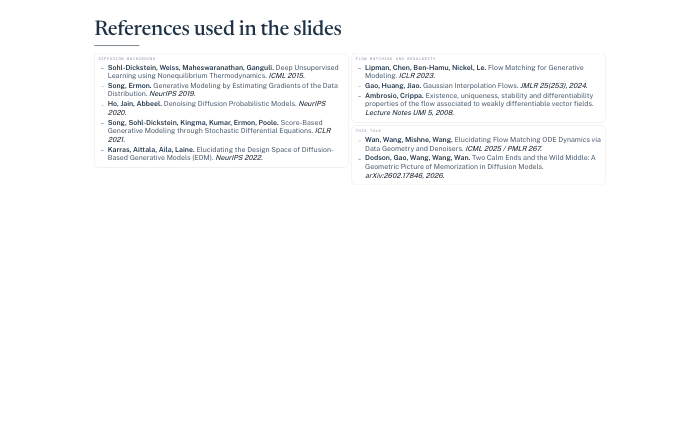
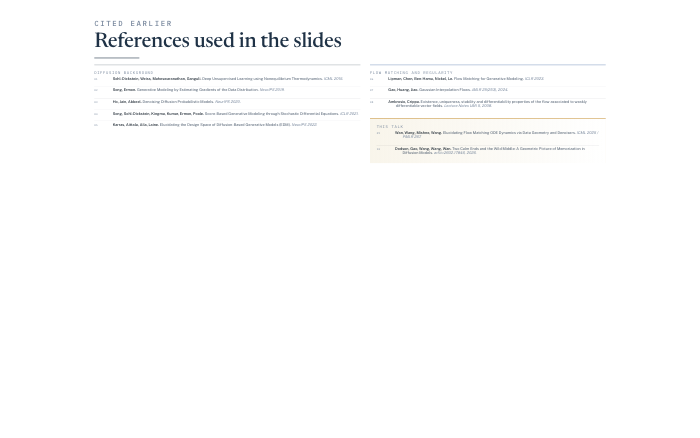
Polish references slide

Changed region(s): [[0.12, 0.0297, 0.87, 0.4155]]

diff --git a/colloquium-academic-v8-modular-rebuilt/44-references.html b/colloquium-academic-v8-modular-rebuilt/44-references.html
@@ -30,75 +30,177 @@
     <div class="slides">
 <section class="refs-slide">
 <style>
-  .refs-slide .late-shell {
-    width: 100%;
-  }
-
   .refs-slide h2 {
-    margin-bottom: 0.34em;
+    margin-bottom: 0.42em;
   }
 
-  .refs-slide .late-refs-grid {
-    grid-template-columns: minmax(0, 1fr) minmax(0, 1fr);
-    gap: 0.48rem;
+  .refs-slide .refs-spread {
+    flex: 1 1 auto;
+    min-height: 0;
+    display: grid;
+    grid-template-columns: minmax(0, 1.06fr) minmax(0, 0.94fr);
+    gap: 0.9em;
+    align-items: stretch;
   }
 
-  .refs-slide .late-refs-stack {
-    gap: 0.48rem;
+  .refs-slide .refs-column,
+  .refs-slide .refs-stack {
+    min-width: 0;
+    min-height: 0;
   }
 
-  .refs-slide .late-panel {
-    border-radius: 12px;
-    padding: 0.48rem 0.62rem 0.5rem;
+  .refs-slide .refs-column {
+    display: flex;
+    flex-direction: column;
   }
 
-  .refs-slide .late-panel__kicker {
-    margin-bottom: 0.32rem;
-    font-size: 0.28em;
+  .refs-slide .refs-stack {
+    display: grid;
+    grid-template-rows: minmax(0, 1fr) auto;
+    gap: 0.7em;
+  }
+
+  .refs-slide .refs-group {
+    border-top: 2px solid rgba(31, 50, 70, 0.28);
+    padding-top: 0.48em;
+  }
+
+  .refs-slide .refs-group--diffusion {
+    height: 100%;
+  }
+
+  .refs-slide .refs-group--regularity {
+    border-top-color: rgba(47, 93, 156, 0.42);
+  }
+
+  .refs-slide .refs-group--talk {
+    border-top-color: rgba(194, 140, 45, 0.68);
+    background: linear-gradient(90deg, rgba(246, 241, 227, 0.72), rgba(255, 255, 255, 0));
+    padding: 0.52em 0.58em 0.5em;
+  }
+
+  .refs-slide .refs-kicker {
+    font-family: 'IBM Plex Mono', monospace;
+    font-size: 0.31em;
     letter-spacing: 0.16em;
+    line-height: 1.15;
+    text-transform: uppercase;
+    color: var(--ink-muted);
+    margin-bottom: 0.62em;
   }
 
-  .refs-slide .late-panel li {
-    font-size: 0.52em;
-    line-height: 1.22;
-    margin-bottom: 0.18em;
+  .refs-slide .refs-list {
+    list-style: none;
+    margin: 0;
+    padding: 0;
+    display: grid;
+    gap: 0.28em;
   }
 
-  .refs-slide .late-panel li:last-child {
-    margin-bottom: 0;
+  .refs-slide .refs-item {
+    display: grid;
+    grid-template-columns: 2.2em minmax(0, 1fr);
+    gap: 0.48em;
+    align-items: baseline;
+    padding-top: 0.22em;
+    border-top: 1px solid rgba(21, 32, 43, 0.09);
+    margin: 0;
+    font-size: 1em;
+  }
+
+  .refs-slide .refs-item:first-child {
+    border-top: none;
+    padding-top: 0;
+  }
+
+  .refs-slide .refs-no {
+    font-family: 'IBM Plex Mono', monospace;
+    font-size: 0.38em;
+    letter-spacing: 0.08em;
+    color: var(--ink-muted);
+  }
+
+  .refs-slide .refs-cite {
+    color: var(--ink-soft);
+    font-size: 0.64em;
+    line-height: 1.18;
+  }
+
+  .refs-slide .refs-cite strong {
+    color: var(--navy);
+    font-weight: 650;
+  }
+
+  .refs-slide .refs-cite em {
+    color: var(--navy);
+    font-style: italic;
+  }
+
+  @media (max-height: 740px) {
+    .refs-slide h2 {
+      margin-bottom: 0.3em;
+    }
+    .refs-slide .refs-spread {
+      gap: 0.72em;
+    }
+    .refs-slide .refs-stack {
+      gap: 0.54em;
+    }
+    .refs-slide .refs-group {
+      padding-top: 0.38em;
+    }
+    .refs-slide .refs-group--talk {
+      padding: 0.42em 0.5em 0.4em;
+    }
+    .refs-slide .refs-list {
+      gap: 0.22em;
+    }
+    .refs-slide .refs-item {
+      grid-template-columns: 2.3em minmax(0, 1fr);
+      gap: 0.44em;
+      padding-top: 0.18em;
+    }
+    .refs-slide .refs-kicker {
+      font-size: 0.29em;
+      margin-bottom: 0.42em;
+    }
+    .refs-slide .refs-cite {
+      font-size: 0.56em;
+      line-height: 1.16;
+    }
   }
 </style>
-<div class="late-shell late-shell--wide">
 <h2 data-kicker="Cited Earlier">References used in the slides</h2>
-<div class="late-refs-grid">
-<div class="late-panel late-panel--paper">
-<div class="late-panel__kicker">Diffusion background</div>
-<ul>
-<li><strong>Sohl-Dickstein, Weiss, Maheswaranathan, Ganguli.</strong> Deep Unsupervised Learning using Nonequilibrium Thermodynamics. <em>ICML 2015.</em></li>
-<li><strong>Song, Ermon.</strong> Generative Modeling by Estimating Gradients of the Data Distribution. <em>NeurIPS 2019.</em></li>
-<li><strong>Ho, Jain, Abbeel.</strong> Denoising Diffusion Probabilistic Models. <em>NeurIPS 2020.</em></li>
-<li><strong>Song, Sohl-Dickstein, Kingma, Kumar, Ermon, Poole.</strong> Score-Based Generative Modeling through Stochastic Differential Equations. <em>ICLR 2021.</em></li>
-<li><strong>Karras, Aittala, Aila, Laine.</strong> Elucidating the Design Space of Diffusion-Based Generative Models (EDM). <em>NeurIPS 2022.</em></li>
-</ul>
-</div>
-<div class="late-refs-stack">
-<div class="late-panel late-panel--paper">
-<div class="late-panel__kicker">Flow matching and regularity</div>
-<ul>
-<li><strong>Lipman, Chen, Ben-Hamu, Nickel, Le.</strong> Flow Matching for Generative Modeling. <em>ICLR 2023.</em></li>
-<li><strong>Gao, Huang, Jiao.</strong> Gaussian Interpolation Flows. <em>JMLR 25(253), 2024.</em></li>
-<li><strong>Ambrosio, Crippa.</strong> Existence, uniqueness, stability and differentiability properties of the flow associated to weakly differentiable vector fields. <em>Lecture Notes UMI 5, 2008.</em></li>
-</ul>
-</div>
-<div class="late-panel late-panel--paper">
-<div class="late-panel__kicker">This talk</div>
-<ul>
-<li><strong>Wan, Wang, Mishne, Wang.</strong> Elucidating Flow Matching ODE Dynamics via Data Geometry and Denoisers. <em>ICML 2025 / PMLR 267.</em></li>
-<li><strong>Dodson, Gao, Wang, Wang, Wan.</strong> Two Calm Ends and the Wild Middle: A Geometric Picture of Memorization in Diffusion Models. <em>arXiv:2602.17846, 2026.</em></li>
-</ul>
-</div>
-</div>
-</div>
+<div class="refs-spread">
+  <div class="refs-column">
+    <div class="refs-group refs-group--diffusion">
+      <div class="refs-kicker">Diffusion background</div>
+      <ol class="refs-list">
+        <li class="refs-item"><span class="refs-no">01</span><span class="refs-cite"><strong>Sohl-Dickstein, Weiss, Maheswaranathan, Ganguli.</strong> Deep Unsupervised Learning using Nonequilibrium Thermodynamics. <em>ICML 2015.</em></span></li>
+        <li class="refs-item"><span class="refs-no">02</span><span class="refs-cite"><strong>Song, Ermon.</strong> Generative Modeling by Estimating Gradients of the Data Distribution. <em>NeurIPS 2019.</em></span></li>
+        <li class="refs-item"><span class="refs-no">03</span><span class="refs-cite"><strong>Ho, Jain, Abbeel.</strong> Denoising Diffusion Probabilistic Models. <em>NeurIPS 2020.</em></span></li>
+        <li class="refs-item"><span class="refs-no">04</span><span class="refs-cite"><strong>Song, Sohl-Dickstein, Kingma, Kumar, Ermon, Poole.</strong> Score-Based Generative Modeling through Stochastic Differential Equations. <em>ICLR 2021.</em></span></li>
+        <li class="refs-item"><span class="refs-no">05</span><span class="refs-cite"><strong>Karras, Aittala, Aila, Laine.</strong> Elucidating the Design Space of Diffusion-Based Generative Models (EDM). <em>NeurIPS 2022.</em></span></li>
+      </ol>
+    </div>
+  </div>
+  <div class="refs-stack">
+    <div class="refs-group refs-group--regularity">
+      <div class="refs-kicker">Flow matching and regularity</div>
+      <ol class="refs-list">
+        <li class="refs-item"><span class="refs-no">06</span><span class="refs-cite"><strong>Lipman, Chen, Ben-Hamu, Nickel, Le.</strong> Flow Matching for Generative Modeling. <em>ICLR 2023.</em></span></li>
+        <li class="refs-item"><span class="refs-no">07</span><span class="refs-cite"><strong>Gao, Huang, Jiao.</strong> Gaussian Interpolation Flows. <em>JMLR 25(253), 2024.</em></span></li>
+        <li class="refs-item"><span class="refs-no">08</span><span class="refs-cite"><strong>Ambrosio, Crippa.</strong> Existence, uniqueness, stability and differentiability properties of the flow associated to weakly differentiable vector fields. <em>Lecture Notes UMI 5, 2008.</em></span></li>
+      </ol>
+    </div>
+    <div class="refs-group refs-group--talk">
+      <div class="refs-kicker">This talk</div>
+      <ol class="refs-list">
+        <li class="refs-item"><span class="refs-no">09</span><span class="refs-cite"><strong>Wan, Wang, Mishne, Wang.</strong> Elucidating Flow Matching ODE Dynamics via Data Geometry and Denoisers. <em>ICML 2025 / PMLR 267.</em></span></li>
+        <li class="refs-item"><span class="refs-no">10</span><span class="refs-cite"><strong>Dodson, Gao, Wang, Wang, Wan.</strong> Two Calm Ends and the Wild Middle: A Geometric Picture of Memorization in Diffusion Models. <em>arXiv:2602.17846, 2026.</em></span></li>
+      </ol>
+    </div>
+  </div>
 </div>
 </section>
     </div>
